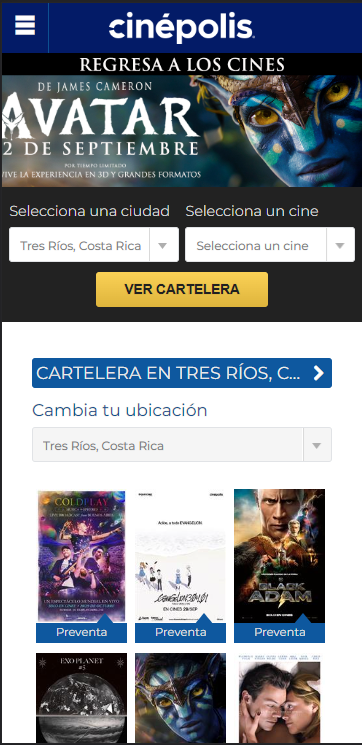
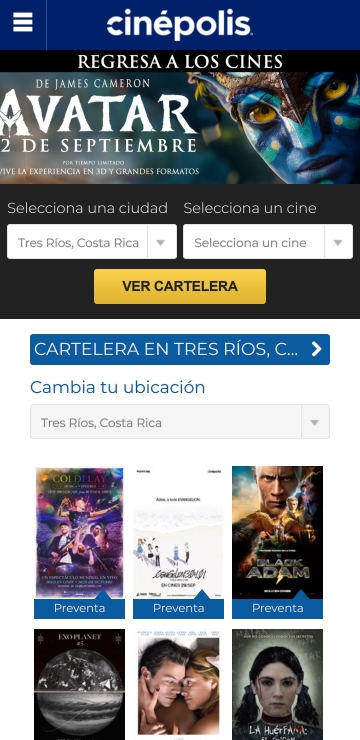
small lesson 2

diff --git a/lesson2/design-principles.html b/lesson2/design-principles.html
@@ -21,27 +21,35 @@
     </header>
 
     <main>
+
+        <div id="first">
         
-        <h2>Visual Hierarchy</h2>
-        <h3>Cinépolis</h3>
-        <a href= “https://www.cinepolis.co.cr/”> https://www.cinepolis.co.cr/ </a>
-        <img id="image" src="images\hierarchy.png" alt="Movie Theater Web Site" width="256" height="256">
+            <h2>Visual Hierarchy</h2>
+            <h3>Cinépolis</h3>
+            <a href= “https://www.cinepolis.co.cr/”> https://www.cinepolis.co.cr/ </a>
+            <img id="image" src="images\hierarchy.png" alt="https://www.cinepolis.co.cr/ Web Site" width="360" height="740">
         
-        <p>The website exemplifies how using bigger size elements, such as images and fonts, from top to bottom, creates a vertical Visual hierarchy driecting the user's focus from the top publicity to the bottom movies currently available.</p>
-       
-        <h2>Repetition</h2>
-        <h3>Linkedin</h3>
-        <a href= “https://www.linkedin.com/feed/”> https://www.linkedin.com/feed/ </a>
-        <img id="image" src="images\repetition.png" alt="Movie Theater Web Site" width="256" height="256">
+            <p>The website exemplifies how using bigger size elements, such as images and fonts, from top to bottom, creates a vertical Visual hierarchy driecting the user's focus from the top publicity to the bottom movies currently available.</p>
+        </div>
         
-        <p>The website achieves consistency by repeting similar elements like sections, colors, spaces and the location of buttons. This allows for an easy navigation experience</p>
-       
-        <h2>Alignment</h2>
-        <h3>UFC</h3>
-        <a href= “https://www.ufcespanol.com/”> https://www.ufcespanol.com/ </a>
-        <img id="image" src="images\alignment.png" alt="Movie Theater Web Site" width="256" height="256">
+        <div id="second">
+            <h2>Repetition</h2>
+            <h3>Linkedin</h3>
+            <a href= “https://www.linkedin.com/feed/”> https://www.linkedin.com/feed/ </a>
+            <img id="image" src="images\repetition.png" alt="https://www.linkedin.com/feed/ Web Site" width="360" height="740">
+            <p>The website achieves consistency by repeting similar elements like sections, colors, spaces and the location of buttons. This allows for an easy navigation experience</p>
+        </div>
         
-        <p>The centered horizontal alignment visible in the website is very appropriate because it presents sigle items per row focusing in the "call to action".</p>
+        
+        <div id="third">
+            <h2>Alignment</h2>
+            <h3>UFC</h3>
+            <a href= “https://www.ufcespanol.com/”> https://www.ufcespanol.com/ </a>
+            <img id="image" src="images\alignment.png" alt="https://www.ufcespanol.com/ Web Site" width="360" height="740">
+        
+            <p>The centered horizontal alignment visible in the website is very appropriate because it presents sigle items per row focusing in the "call to action".</p>
+        </div>
+    
     </main>
     <footer>
         <p id="one">&copy;<span id="year">Year</span>  .:|:. Alban Barrantes .:|:. Costa Rica</p>

diff --git a/lesson2/styles/small.css b/lesson2/styles/small.css
@@ -11,3 +11,61 @@ header{
     color: white;
     padding: 10px;
 }
+
+header h2{
+
+    color: gold;
+}
+
+main{
+    display: grid;
+    max-width: 950px;
+    justify-content: center; 
+    padding: 5px;
+    background-color: rgb(185, 181, 172);
+}
+
+main h2{
+    background-color: rgb(13, 19, 19);
+    color: white;
+    font-size: 1.17em;
+    margin-block-end:  0;
+    line-height: 1.8;
+}
+
+main h3{
+    font-weight: normal;
+    margin-block:  0;
+    line-height: 1.8;
+}
+
+main a{
+
+    background-color: rgb(185, 181, 172);
+    margin-block:  0;
+    line-height: 1.8;
+
+}
+
+img{
+    max-width: 100%;
+}
+
+footer{
+     
+    display: grid;
+    justify-content: center; 
+    background-color: rgb(2, 2, 61);
+}
+
+#one{
+    text-align:center;
+    color: white;
+    font-size: 1em;
+}
+
+#two{
+    text-align:center;
+    color: gold;
+    font-size: 1em;
+}
